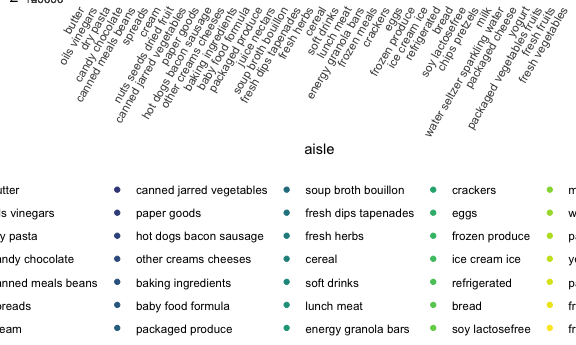
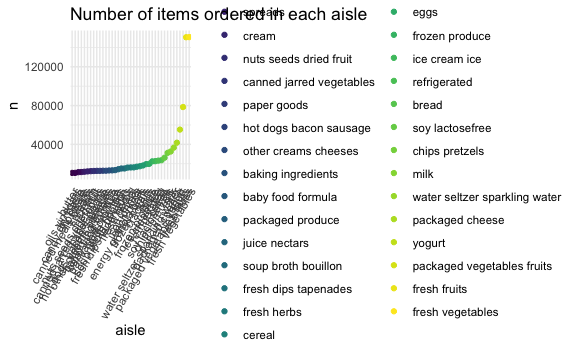
I realized that my graphs are not even viewable because the legends took up so much space so I moved the position of my legends

diff --git a/P8105_hw3_yy3291.md b/P8105_hw3_yy3291.md
@@ -159,7 +159,7 @@ instacart |>
   ggplot(aes(x = aisle, y = n)) + 
   geom_point(aes(color = aisle)) + 
   labs(title = "Number of items ordered in each aisle") +
-  theme(axis.text.x = element_text(angle = 60, hjust = 1))
+  theme(axis.text.x = element_text(angle = 60, hjust = 1), legend.position = "right")
 ```
 
 <img src="P8105_hw3_yy3291_files/figure-gfm/unnamed-chunk-3-1.png" width="90%" />
@@ -427,7 +427,8 @@ excellent_df =
 excellent_plot =
   ggplot(excellent_df, aes(x = Year, y = mean_data_value, group = Locationabbr, color = Locationabbr)) +
   geom_line() +
-  labs(title = "Spaghetti Plot of Mean Data Value Within Each State", x = "Year", Y = "Mean Values", color = "State")
+  labs(title = "Spaghetti Plot of Mean Data Value Within Each State", x = "Year", Y = "Mean Values", color = "State") + 
+  theme(legend.position = "right")
 excellent_plot
 ```
 
